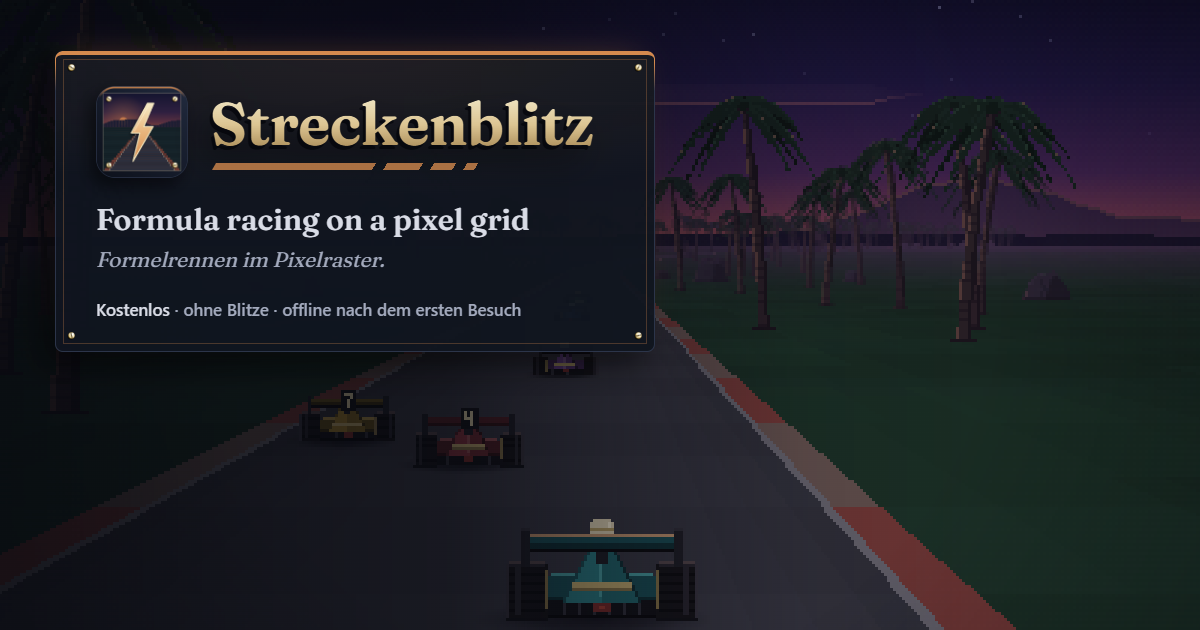
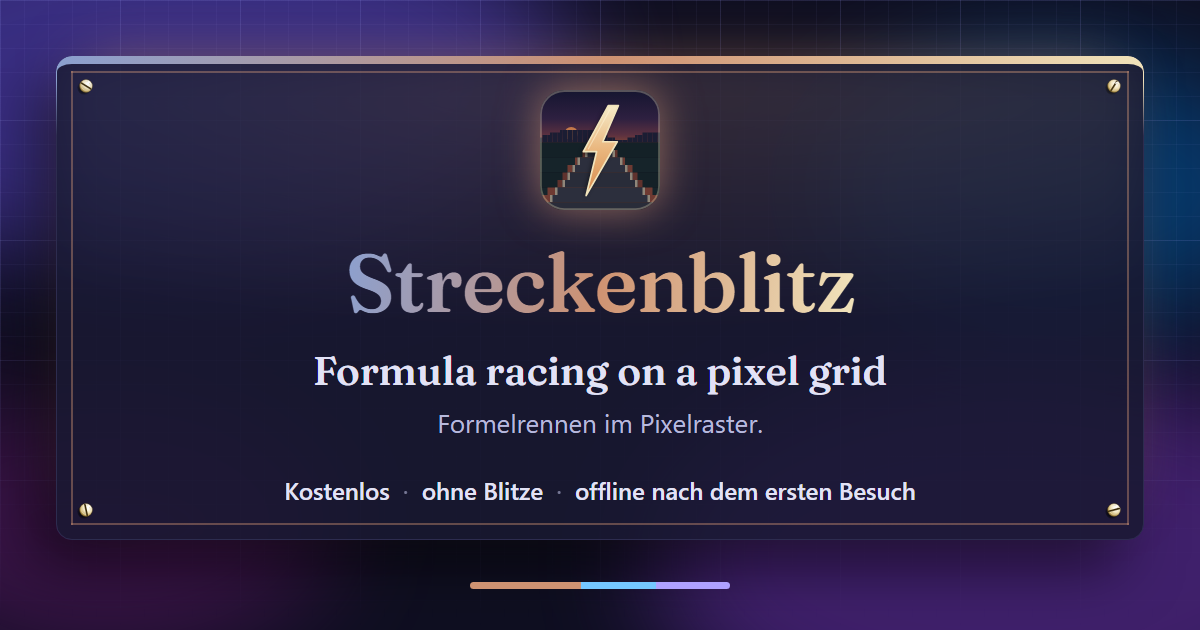
Werbebild aus der Werkstatt-Vorlage als og.png, Service Worker v5
- og.png kommt jetzt aus tools/promo der Startseite (Symbol, Name im Verlauf
  Asphaltblau, Signalorange, Weißgold, Claims wie zuvor) und ersetzt das
  vorläufige Rennbild
- og:image:alt beschreibt das neue Bild, darum streckenblitz-v5 (auch in
  tests/spiel.mjs)
- docs/github-social.png und docs/instagram.png liegen nur lokal (ignoriert),
  die Social preview lädt Dennis von Hand hoch

diff --git a/index.html b/index.html
@@ -14,7 +14,7 @@
 <meta property="og:image" content="https://dennismit2n.github.io/streckenblitz/og.png">
 <meta property="og:image:width" content="1200">
 <meta property="og:image:height" content="630">
-<meta property="og:image:alt" content="Dark graphic: a race in Streckenblitz at dusk, your teal formula car behind three rivals on a coastal road with palms. Top left a plate with white gold screws, the icon, the name “Streckenblitz”, the line “Formula racing on a pixel grid” and, smaller, „Formelrennen im Pixelraster.“ Below it „Kostenlos, ohne Blitze, offline nach dem ersten Besuch“.">
+<meta property="og:image:alt" content="Dark graphic: the Streckenblitz icon with a pixel road at dusk and a lightning bolt, below it the name “Streckenblitz” running from asphalt blue through signal orange to white gold, the line “Formula racing on a pixel grid” and, smaller, „Formelrennen im Pixelraster.“ At the bottom „Kostenlos, ohne Blitze, offline nach dem ersten Besuch“.">
 <meta property="og:locale" content="en_GB">
 <meta property="og:locale:alternate" content="de_DE">
 <meta name="twitter:card" content="summary_large_image">

diff --git a/sw.js b/sw.js
@@ -12,7 +12,7 @@
 "use strict";
 
 // Bei jeder Änderung an einer der Dateien unten um 1 erhöhen
-const CACHE = "streckenblitz-v4";
+const CACHE = "streckenblitz-v5";
 
 // Genau die Dateien, die index.html und das Manifest laden. Eine Datei, die es nicht gibt, ließe die ganze
 // Installation scheitern.
